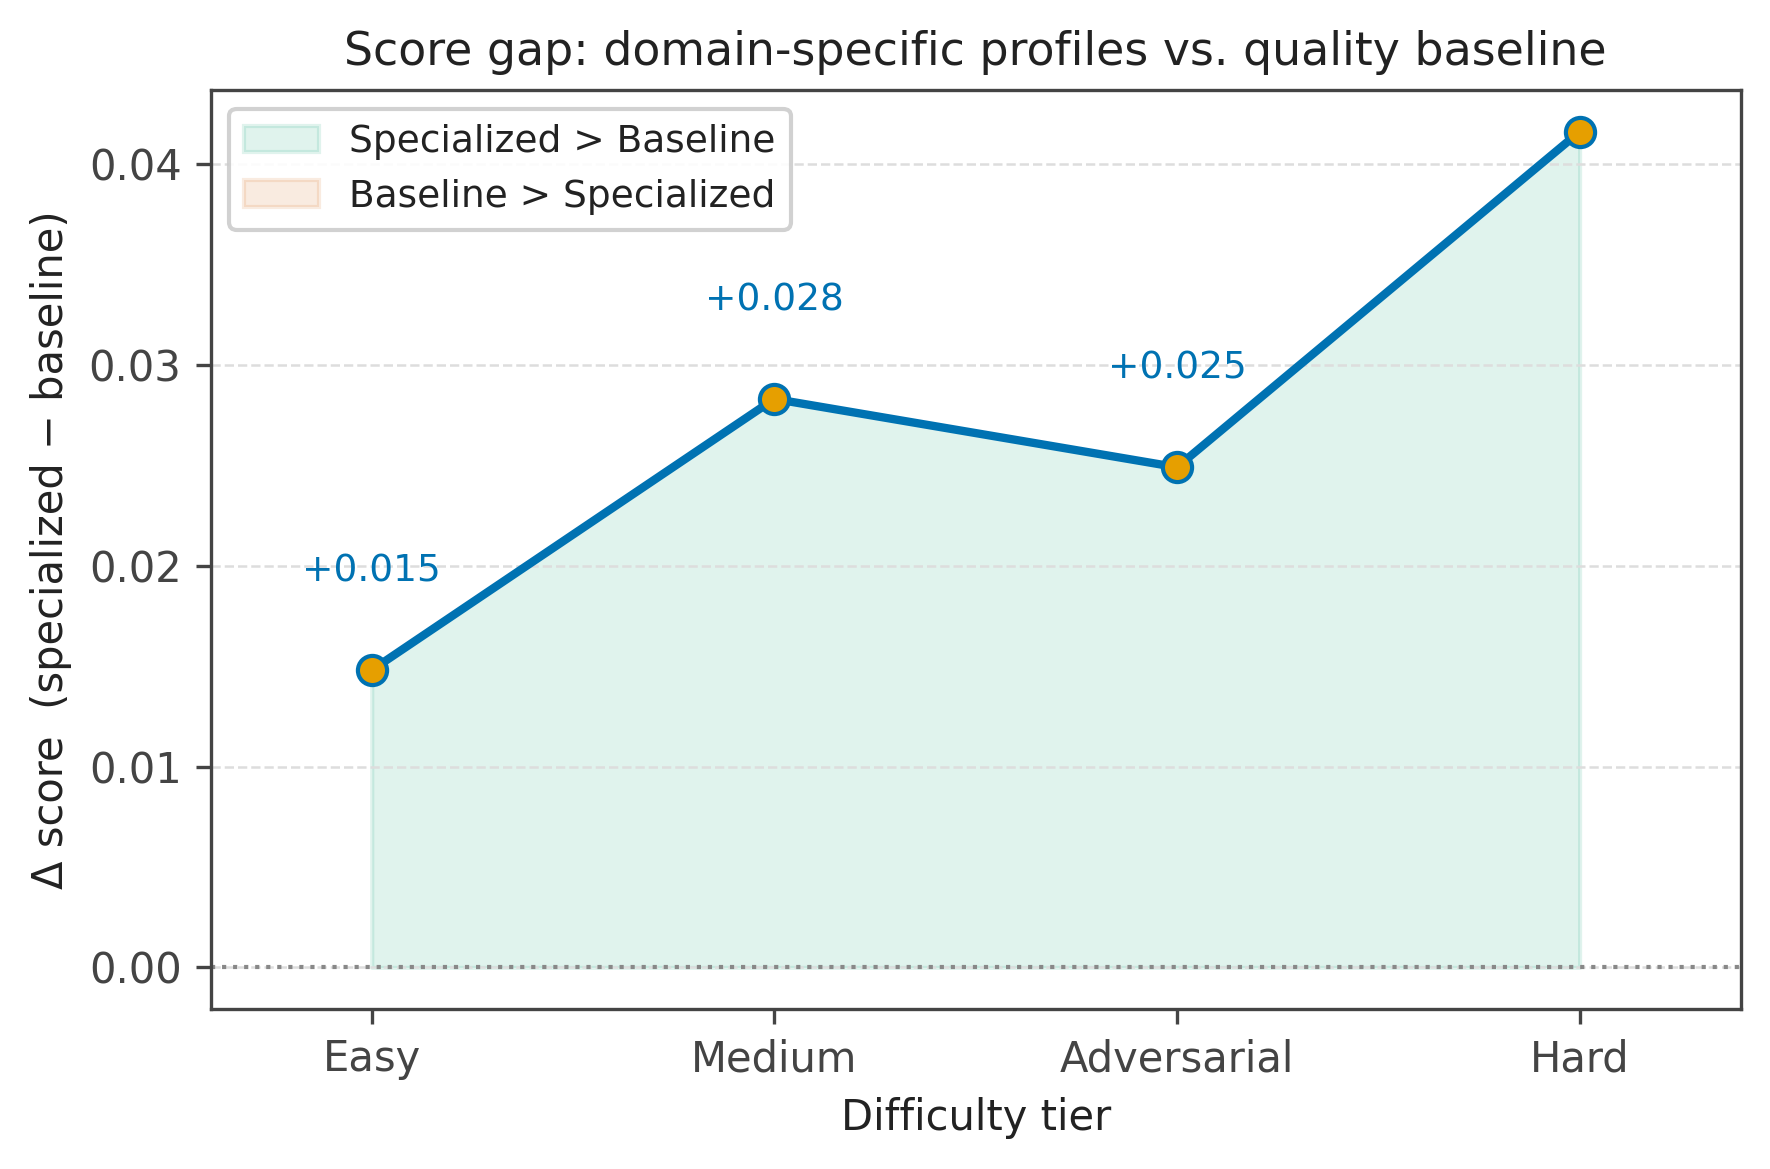
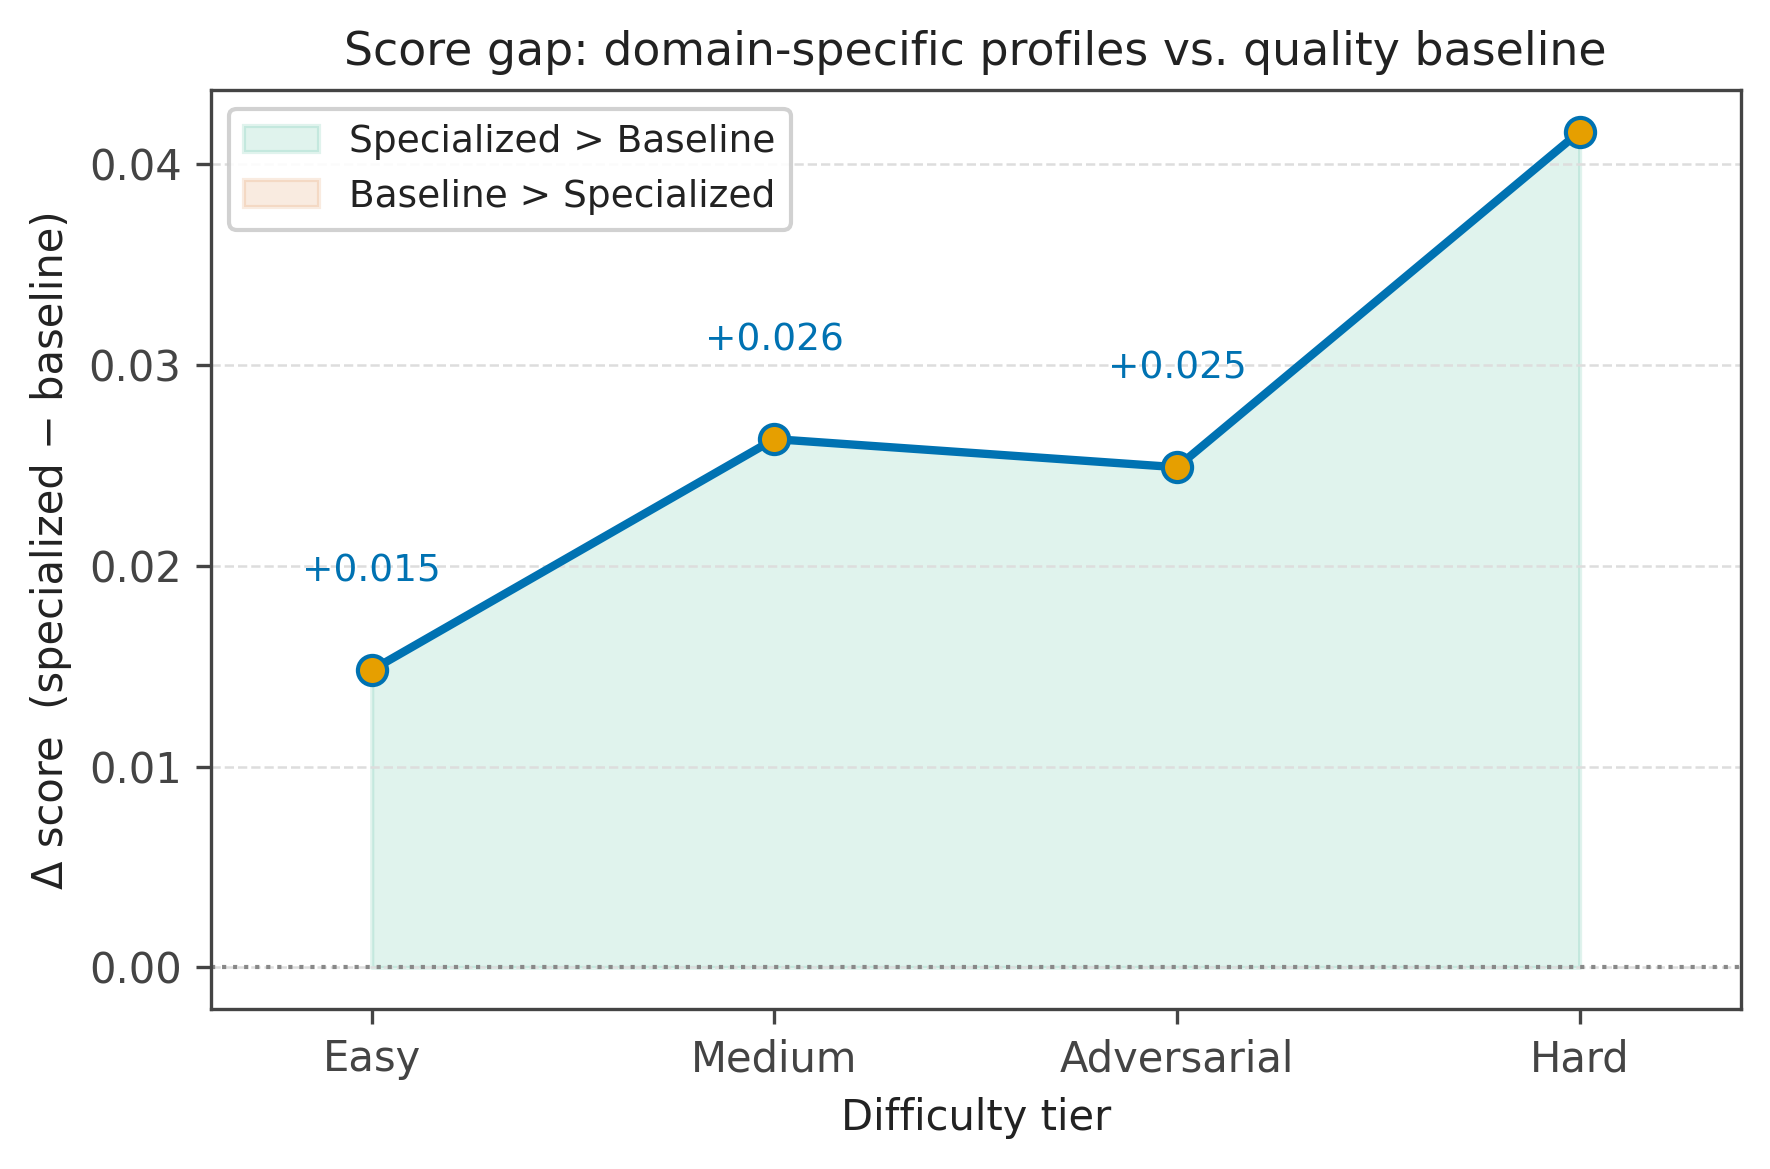
analysis: judge-centred inter-judge sigma (Figure 6 of the v2), sum_06 difficulty fixed
- interjudge_sigma.py: Figure 6 (centred sigma, all judges) and the without-lfm2.5
  variant (appendix); per-prompt sigma by difficulty, same style as generate_figures.py.
- prompts.json: sum_06 was labelled "medium-hard" (every other *_06 prompt is "medium").
  It formed a fifth tier with no specialised counterpart, so it was left out of the
  difficulty tests and of the difficulty figures. Relabelled "medium"; summary_all.json
  and the *_all figures regenerated (medium: +0.026, Holm p = 0.61; other tiers unchanged).
  summary.json (arXiv v1 snapshot) is not regenerated.

Changed region(s): [[0.2175, 0.2464, 0.6525, 0.5543]]

diff --git a/scripts/interjudge_sigma.py b/scripts/interjudge_sigma.py
@@ -15,7 +15,10 @@ Outputs:
     docs/benchmark/analysis/adversarial_sigma.md    adversarial (prompt, generator) rows sorted by centred sigma,
                                                     with the answer (300 chars) and every judge's score
 
-Usage: python scripts/interjudge_sigma.py [--models all]
+    docs/benchmark/figures/interjudge_sigma_centred.png               Figure 6 of the v2 (all judges)
+    docs/benchmark/figures/interjudge_sigma_centred_without_lfm.png   sensitivity variant (appendix)
+
+Usage: python scripts/interjudge_sigma.py [--models all] [--no-figure]
 """
 
 import argparse
@@ -32,6 +35,40 @@ OUT_JSON = Path("docs/benchmark/analysis/interjudge_sigma.json")
 OUT_MD = Path("docs/benchmark/analysis/adversarial_sigma.md")
 LOW_JUDGE = "lfm2.5-1.2b-thinking"
 TAIL = 0.15  # sigma threshold used in the paper (Finding 5)
+OUT_FIG = Path("docs/benchmark/figures")
+DIFF_ORDER = ["easy", "medium", "adversarial", "hard"]
+
+
+def boxplot(prompt_sigma: dict, meta: dict, path: Path, subtitle: str) -> None:
+    """Per-prompt sigma (averaged over generators) by difficulty tier, same style as generate_figures.py."""
+    import matplotlib
+
+    matplotlib.use("Agg")
+    import matplotlib.pyplot as plt
+    from generate_figures import CB, DPI, FIGSIZE_SINGLE, base_style
+
+    base_style()
+    groups = {d: [v for p, v in prompt_sigma.items() if meta[p]["difficulty"] == d] for d in DIFF_ORDER}
+    fig, ax = plt.subplots(figsize=FIGSIZE_SINGLE)
+    bp = ax.boxplot([groups[d] for d in DIFF_ORDER], patch_artist=True,
+                    medianprops={"color": "white", "linewidth": 2},
+                    flierprops={"marker": "o", "markersize": 4, "markeredgecolor": "#888888", "alpha": 0.6})
+    for patch, c in zip(bp["boxes"], [CB["green"], CB["sky"], CB["orange"], CB["vermil"]]):
+        patch.set_facecolor(c)
+        patch.set_alpha(0.75)
+    ax.set_xticks(range(1, len(DIFF_ORDER) + 1), [d.capitalize() for d in DIFF_ORDER])
+    ax.axhline(TAIL, color="#888888", linestyle=":", linewidth=1)
+    ax.set_xlabel("Difficulty tier")
+    ax.set_ylabel("Inter-judge σ (judge-centred scores)")
+    ax.set_title(f"Judge disagreement by difficulty — {subtitle}")
+    ax.grid(axis="y")
+    for i, d in enumerate(DIFF_ORDER, 1):
+        ax.annotate(f"n={len(groups[d])}", (i, ax.get_ylim()[0]), ha="center", va="bottom", fontsize=8, color="#666666")
+    fig.tight_layout()
+    OUT_FIG.mkdir(parents=True, exist_ok=True)
+    fig.savefig(path, dpi=DPI, bbox_inches="tight", facecolor="white")
+    plt.close(fig)
+    print(f"  Saved: {path}")
 
 
 def sd(v):
@@ -56,6 +93,7 @@ def median(v):
 def main():
     ap = argparse.ArgumentParser()
     ap.add_argument("--models", default="all")
+    ap.add_argument("--no-figure", action="store_true")
     args = ap.parse_args()
     models = set(select(args.models))
 
@@ -156,6 +194,11 @@ def main():
             print(f"  {d:<12} pairs={s['n_pairs']:<4} median={s['median']:.3f} mean={s['mean']:.3f} "
                   f"share>{TAIL}={s['share_above_tail']:.1%}")
     print(f"written {OUT_JSON}, {OUT_MD} ({len(adv)} adversarial pairs, {n_prompts} prompts)")
+    if not args.no_figure:
+        boxplot(variants["centred_all"][1], meta, OUT_FIG / "interjudge_sigma_centred.png",
+                f"{len(judges)} judges")
+        boxplot(variants["centred_without_lfm"][1], meta, OUT_FIG / "interjudge_sigma_centred_without_lfm.png",
+                f"{len(judges) - 1} judges (without lfm2.5)")
 
 
 if __name__ == "__main__":
